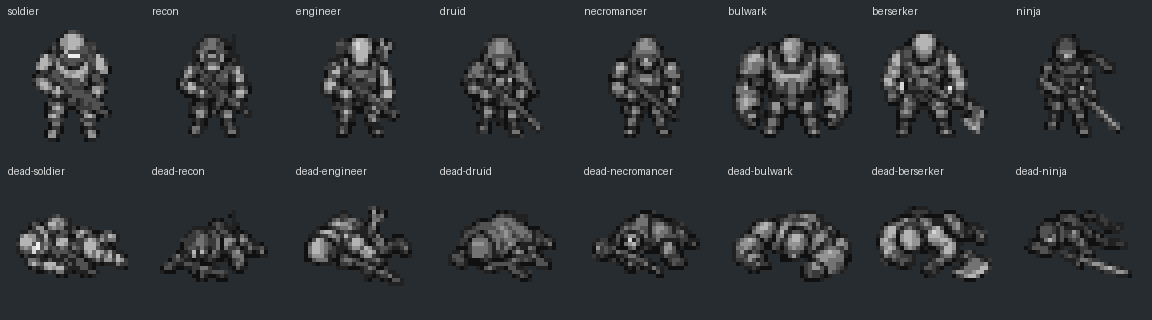
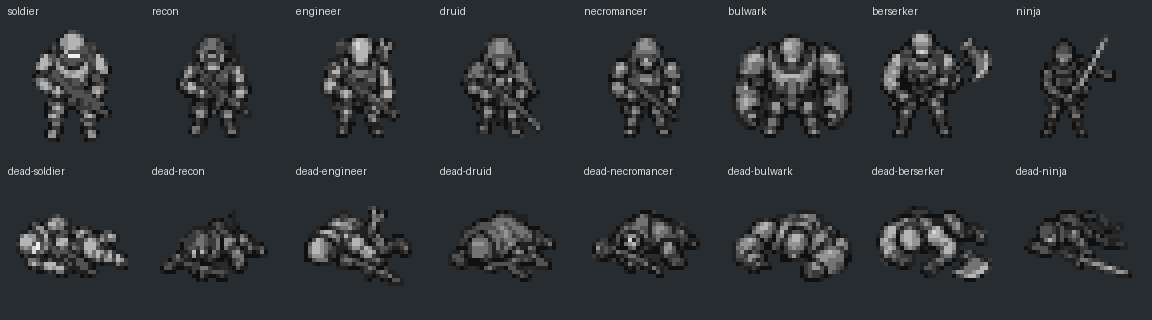
art: correct berserker and ninja weapon grips

Changed region(s): [[0.75, 0.0938, 0.875, 0.4375], [0.9062, 0.125, 0.9688, 0.4375]]

diff --git a/sw.js b/sw.js
@@ -1,4 +1,4 @@
-const CACHE='ash-protocol-v3-48-0';
+const CACHE='ash-protocol-v3-48-1';
 const FILES=['./','./index.html','./style.css','./expansion.css','./src/main.js','./src/controller.js','./src/daily.js','./src/version.js','./src/engine.js','./src/data.js','./src/world.js','./src/barriers.js','./src/containers.js','./src/modules.js','./src/missions.js','./src/retreat.js','./src/traces.js','./src/themes.js','./src/walls.js','./src/art-tone.js','./src/materials.js','./src/material-selection.js','./src/material-review.js','./material-review.html','./src/combat.js','./src/cover.js','./src/lighting.js','./src/traits.js','./src/melee-classes.js','./src/melee-ui.js','./src/throwables.js','./src/prepared.js','./src/skills.js','./src/allies.js','./src/characters.js','./src/actor-stats.js','./src/portraits.js','./src/camera.js','./src/game.js','./src/perks.js','./src/storage.js','./src/progression.js','./src/ammunition.js','./src/weapons.js','./src/backup.js','./src/layout.js','./src/target-card.js','./src/presentation.js','./src/render.js','./src/renderer.js','./src/class-art.js','./assets/pixel/classes-v1/atlas.png','./src/movement-boundaries.js','./src/audio.js','./assets/icon.svg','./assets/operator.svg','./assets/rifle.svg','./assets/lmg.svg','./assets/thunder.svg','./assets/powerfist.svg','./assets/shotgun.svg','./assets/smg.svg','./assets/sniper.svg','./assets/plasma.svg','./assets/launcher.svg','./assets/pixel/atlas.png','./assets/pixel/terrain-v1/atlas.png','./assets/pixel/walls-v1/atlas.png','./assets/pixel/aftermath.png','./assets/pixel/player.png','./assets/pixel/portraits/ember.png','./assets/pixel/portraits/onyx.png','./assets/pixel/portraits/silver.png','./assets/pixel/portraits/cedar.png','./assets/pixel/portraits/portrait-05.png','./assets/pixel/portraits/portrait-06.png','./assets/pixel/portraits/portrait-07.png','./assets/pixel/portraits/portrait-08.png','./assets/pixel/portraits/portrait-09.png','./assets/pixel/portraits/portrait-10.png','./assets/pixel/portraits/portrait-11.png','./assets/pixel/portraits/portrait-12.png','./assets/pixel/portraits/portrait-13.png','./assets/pixel/portraits/portrait-14.png','./assets/pixel/portraits/portrait-15.png','./assets/pixel/portraits/portrait-16.png','./manifest.webmanifest'];
 self.addEventListener('install',event=>{event.waitUntil(caches.open(CACHE).then(cache=>cache.addAll(FILES.map(url=>new Request(url,{cache:'reload'})))));self.skipWaiting();});
 self.addEventListener('activate',event=>{event.waitUntil(caches.keys().then(keys=>Promise.all(keys.filter(k=>k.startsWith('ash-protocol-')&&k!==CACHE).map(k=>caches.delete(k)))));self.clients.claim();});

diff --git a/src/version.js b/src/version.js
@@ -1,3 +1,3 @@
 // The one place the game version lives (3.44.1). `npm run bump -- x.y.z` rewrites it together with package.json
 // and the sw.js cache name; tests/release.test.mjs fails if the three disagree.
-export const VERSION='3.48.0';
+export const VERSION='3.48.1';

diff --git a/tools/pixelize_classes.py b/tools/pixelize_classes.py
@@ -11,6 +11,7 @@ import hashlib, json
 ROOT = Path(__file__).resolve().parents[1]
 OUT = ROOT / 'assets/pixel/classes-v1'
 SOURCE = ROOT / 'art/classes-v1/source-atlas.png'
+MELEE_SOURCE = ROOT / 'art/classes-v1/source-melee-standing-v2.png'
 NAMES = ['soldier', 'recon', 'engineer', 'druid', 'necromancer', 'bulwark', 'berserker', 'ninja']
 GRAY = [16, 33, 58, 82, 115, 148, 181, 214, 239]
 # Hand-reviewed cell borders: generated feet cross the nominal quarter rows.
@@ -47,7 +48,7 @@ def indexed(cell, size=None, gain=1):
 
 def build():
     OUT.mkdir(parents=True,exist_ok=True); source=Image.open(SOURCE)
-    atlas=Image.new('RGBA',(128,128)); meta={'tileSize':32,'columns':4,'palette':GRAY,'source_sha256':hashlib.sha256(SOURCE.read_bytes()).hexdigest(),'sprites':{}}
+    atlas=Image.new('RGBA',(128,128)); meta={'tileSize':32,'columns':4,'palette':GRAY,'source_sha256':hashlib.sha256(SOURCE.read_bytes()).hexdigest(),'melee_source_sha256':hashlib.sha256(MELEE_SOURCE.read_bytes()).hexdigest(),'sprites':{}}
     for i in range(16):
         row,col=divmod(i,4); name=NAMES[i%8]; dead=i>=8; key=('dead-' if dead else '')+name
         if name=='soldier':
@@ -55,6 +56,11 @@ def build():
             sprite=indexed(Image.open(original).convert('RGBA'),gain=1.6)
         else:
             cell=clear_matte(source.crop((COLS[row][col],ROWS[row],COLS[row][col+1],ROWS[row+1])))
+            if not dead and name in ['berserker','ninja']:
+                replacement=Image.open(MELEE_SOURCE).convert('RGBA')
+                # Hand-reviewed gap between figures; the axe crosses the nominal middle.
+                split=round(replacement.width*.56)
+                cell=replacement.crop((0 if name=='berserker' else split,0,split if name=='berserker' else replacement.width,replacement.height))
             # Keep large bodies large, rather than normalizing every silhouette to equal width.
             limit=(30,28) if name=='bulwark' else (29,27) if name=='berserker' else (27,26)
             sprite=indexed(cell,limit)

diff --git a/art/classes-v1/PROMPT-melee-standing-v2.md b/art/classes-v1/PROMPT-melee-standing-v2.md
@@ -1,0 +1,5 @@
+# GPT Image standing revision
+
+Built-in image_gen. Reference: art/classes-v1/source-atlas.png. Output: source-melee-standing-v2.png (genuine RGBA).
+
+Generate a replacement TWO-SPRITE sheet, only two standing full-body characters, side by side in two equal cells, generous empty padding on transparent background. Match reference row2 columns3 and4 exactly in overhead front-facing camera, neutral grayscale SNES pixel style, outfit and body proportions. LEFT: broad muscular armored Berserker, thick bare arms. Correct his axe handling: both hands clearly encircle ONE continuous long axe shaft across the front of his waist, hands separated; shaft runs diagonally from lower-left to upper-right, big single axe head ABOVE the right hand and outside right shoulder, visibly connected to shaft. Elbows naturally bent in a stable combat-ready stance, no floating weapon, no blade held directly, no shaft passing through body. RIGHT: slim masked tactical Ninja with small scarf. Correct sword handling: both hands close together gripping the SHORT katana handle in front of the waist, clearly visible small crossguard immediately above hands, ONE continuous slender blade rising diagonally toward upper-right outside shoulder, point upward. No second blade, no scabbard in hands, no gun stance. Weapons fully within own cells; readable grips and distinct blade/handle silhouettes are priority. Coarse pixel clusters designed for actual 32x32 downsampling, 9 shades of neutral gray, bold dark outlines, no colored accents, no text, no grid, no environment, no shadow, no extra characters or death poses. Preserve the reference compact helmet design for Berserker and slim Ninja hood, not realistic human proportions. The two standing sprites should occupy roughly equal height but Berserker body is visibly broader. Transparent background.

diff --git a/art/classes-v1/README.md b/art/classes-v1/README.md
@@ -12,3 +12,7 @@
 未來疊色：成品 RGB 完全相等，適合先以 multiply 色調映射，再用原 alpha 遮罩（不要整格加色塊）。深色輪廓與亮度層次要保留。這輪預設直接呈現灰色，沒有新增角色染色設定或存檔欄位。
 
 renderer 的 `classSprite` 依 presentation 中的 player.character 選圖；迷彩、倒下時序與牆遮擋維持。敵人與友軍的既有圖集不變。尚未做人眼手機戰場驗收，請特別看忍者在暗房的辨識度、重裝兵遮擋感、各死亡姿態。
+
+## 3.48.1 站姿修訂
+
+狂戰士與忍者站姿改讀 source-melee-standing-v2.png（真 alpha，無需去背景），提示見 PROMPT-melee-standing-v2.md。雙手握柄，斧刃與刀尖朝斜上方；以寬度 56% 的空隙分格。仍用原灰階／縮放管線，其他十四張 PNG 位元組不變。

diff --git a/qa/results/2026-09-11-codex-3.48-class-art.md b/qa/results/2026-09-11-codex-3.48-class-art.md
@@ -16,3 +16,9 @@
 ## 本輪自行驗證
 
 `npm test` 511/511 通過；`npm run build` 通過；新增資產測試確認八職業各兩張、32×32、4-bit 索引、純灰色與透明、SHA 與 atlas 座標吻合。
+
+## 3.48.1 使用者修訂
+
+僅重新生成狂戰士與忍者站姿，改善雙手握柄／武器朝向；其他十四張 PNG 經 git diff 確認位元組不變。來源與提示已保存在 art/classes-v1/，像素化腳本可重建。人工看過32px四倍預覽；build通過，未做手機驗收。
+
+3.48.1：npm test 511/511 通過。

diff --git a/docs/CHANGELOG.md b/docs/CHANGELOG.md
@@ -1,5 +1,10 @@
 # 更新紀錄
 
+## 3.48.1：近戰站姿握法修訂
+
+- 重新生成狂戰士／忍者站姿：雙手握斧柄／刀柄，武器斜向上；保留32×32灰階透明規格。其他14張成品不變。
+- 保存新來源、完整提示與重建入口；未改程式規則或存檔。
+
 ## 3.48.0：八職業灰色精靈
 
 - 驗證：511 項測試與 build 通過；手機戰場美術驗收留給使用者／Claude。
